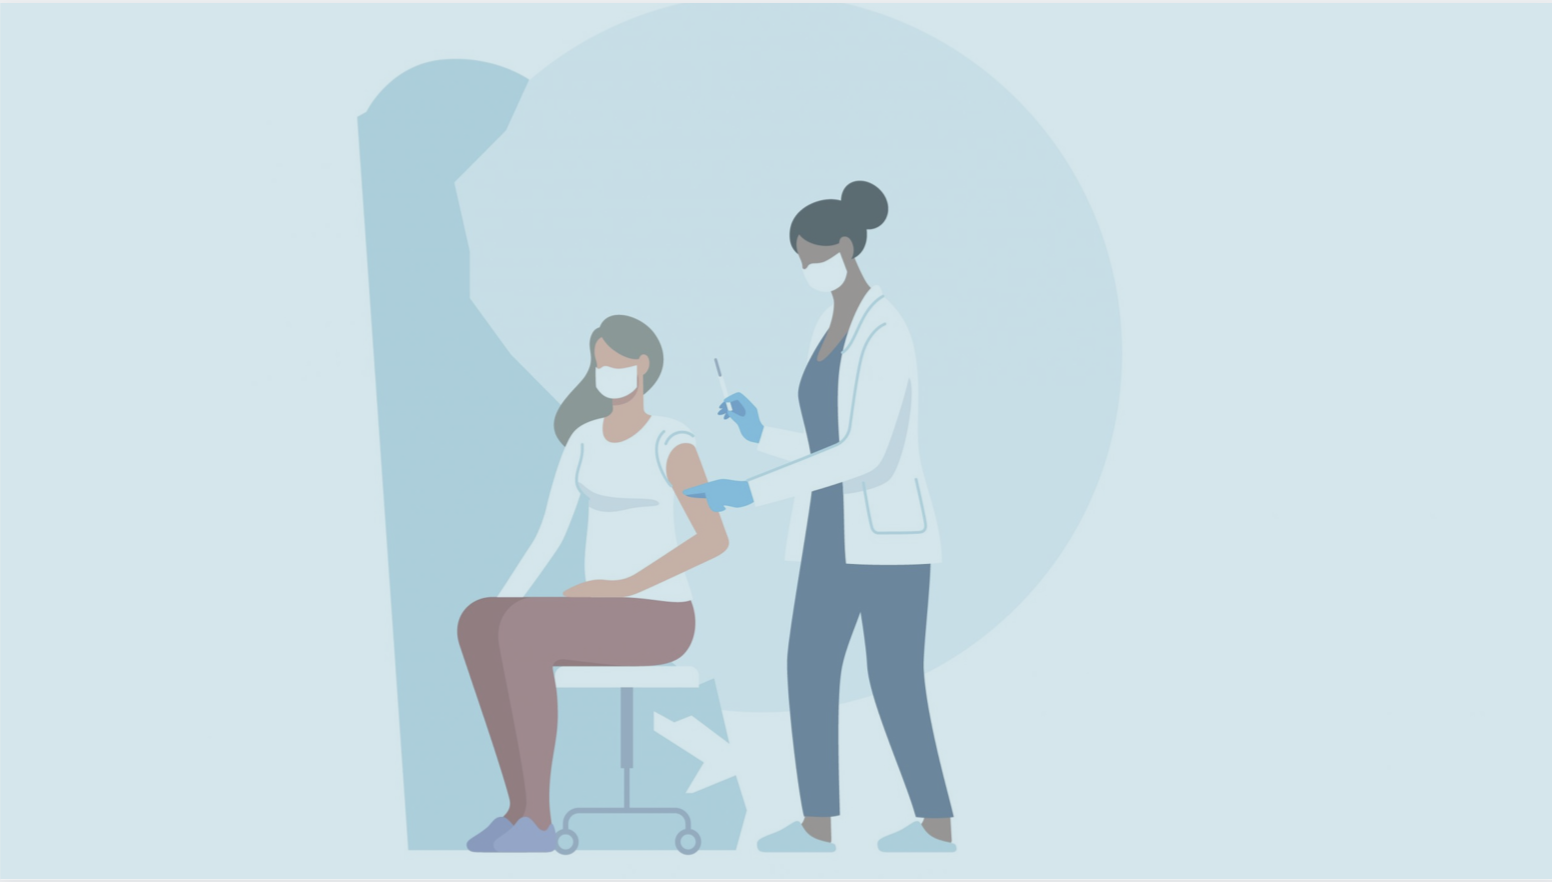
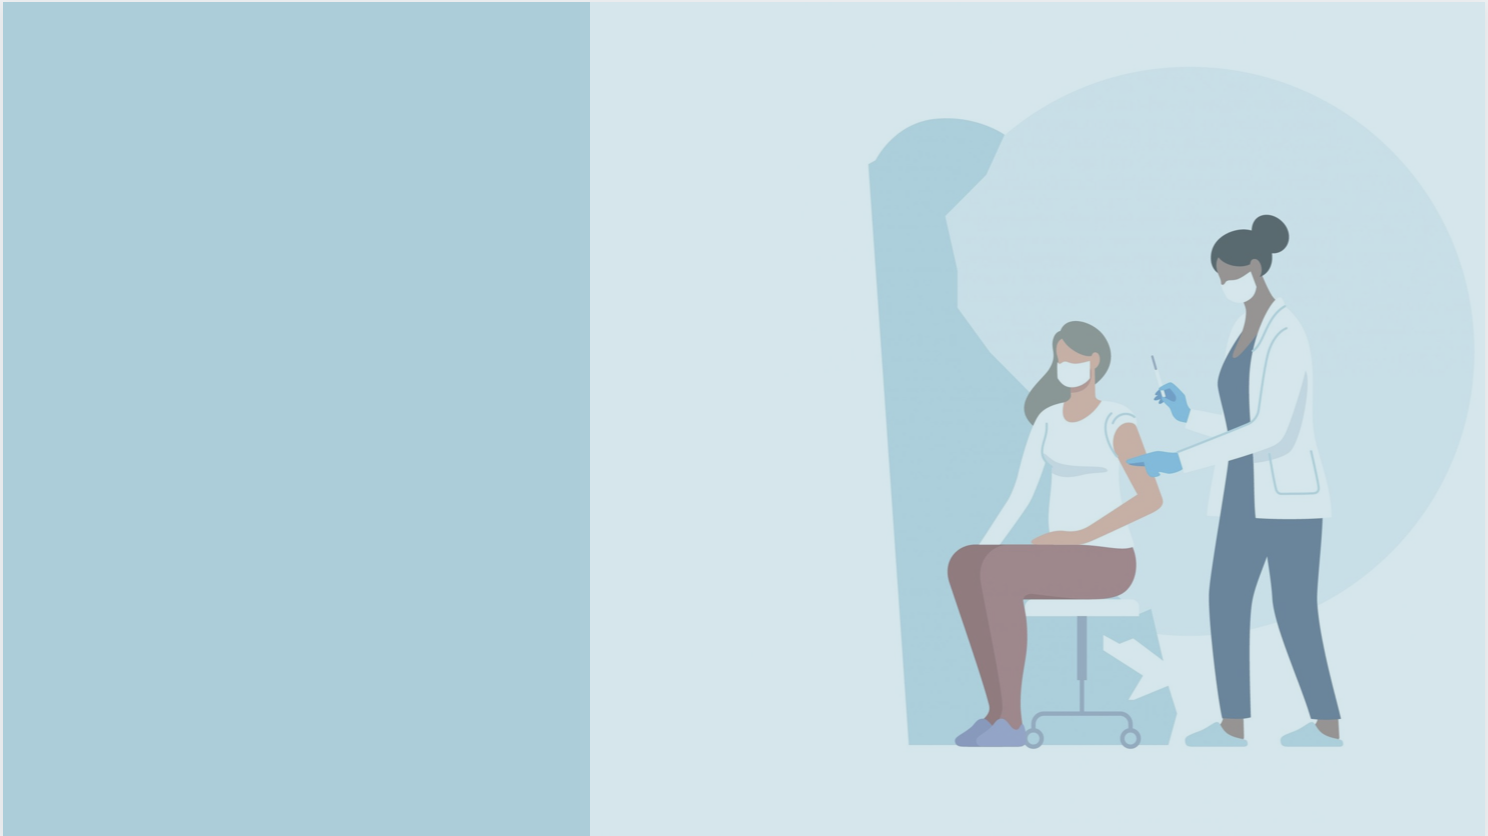
Create login page

diff --git a/src/components/Styles.js b/src/components/Styles.js
@@ -1,6 +1,6 @@
 import styled from 'styled-components';
 //Background
-import background from './../assets/VaccineBackground.png';
+import background from './../assets/Background.png';
 //React router
 import {Link} from 'react-router-dom';
 
@@ -76,4 +76,54 @@ export const ButtonGroup =styled.div`
      justify-content: space-around;
      flex-direction: row;
      margin-top: 25px;
+`;
+//Input
+export const StyledTextInput =styled.input`
+     width: 280px;
+     padding: 15px;
+     padding-left: 50px;
+     font-size: 17px;
+     letter-spacing: 1px;
+     color: ${colors.light2};
+     border: 0;
+     outline: 0;
+     display: block;
+     margin: 5px auto 10px auto;
+     transition: ease-in-out 0.3s;
+
+     ${(props) => props.invalid && `background-color : ${colors.red}; color:${colors.primary};`}
+
+     &:focus{
+         background-color: ${colors.dark2};
+         color: ${colors.primary};
+     }
+`;
+
+export const StyledLabel = styled.p`
+     text-align: left;
+     font-size: 13px;
+     font-weight: bold;
+`;
+
+export const StyledFormArea = styled.div`
+     background-color: ${props => props.bg || colors.light1};
+     text-align: center;
+     padding: 45px 55px;
+`;
+
+export const StyledFormButton = styled.button`
+    padding: 10px;
+    width: 150px;
+    background-color: transparent;
+    font-size: 16px;
+    border :3px solid ${colors.theme};
+    border-radius: 25px;
+    color: ${colors.theme};
+    transition: ease-in-out 0.3s;
+
+    &:hover{
+        background-color:${colors.theme};
+        color: ${colors.primary};
+        cursor: pointer;
+    }
 `;

diff --git a/src/pages/Login.js b/src/pages/Login.js
@@ -1,0 +1,50 @@
+//styled components
+import {StyledTextInput,
+    StyledFormArea,
+    StyledFormButton,
+    StyledLabel,
+    Avatar,
+    StyledTitle,
+    colors,
+    ButtonGroup
+} from './../components/Styles'
+
+import Logo from './../assets/VaccineLogo.png'
+
+//Fromik
+import {Formik,Form} from 'formik';
+import {TextInput} from './../components/FormLib';
+
+const Login =() =>{
+    return(
+       <div>
+           <StyledFormArea>
+               <Avatar image={Logo}/>
+               <StyledTitle color={colors.theme} size={30}>Login</StyledTitle>
+                <Formik>
+                    {()=>(
+                        <Form>
+                            <TextInput 
+                                name="email"
+                                type="text"
+                                label="Email Address"
+                                placeholder="fern.1502@example.com"
+                            />
+                            <TextInput
+                                name="password"
+                                type="password"
+                                label="Password"
+                                placeholder="*********"
+                                
+                            />
+                            <ButtonGroup>
+                                <StyledFormButton type="submit">Login</StyledFormButton>
+                            </ButtonGroup>
+                        </Form>
+                    )}
+                </Formik>
+           </StyledFormArea>
+       </div>
+    )
+}
+export default Login;

diff --git a/src/components/FormLib.js b/src/components/FormLib.js
@@ -1,0 +1,24 @@
+import {useField} from 'formik';
+import {
+    StyledTextInput,
+    StyledLabel
+} from './../components/Styles';
+
+export const TextInput =({...props}) => {
+    const [field,meta]=useField(props);
+
+    return(
+        <div>
+            <StyledLabel htmlFor={props.name}>
+                {props.label}
+            </StyledLabel>
+            <StyledTextInput
+                {...field}
+                {...props}
+            />
+
+            
+        </div>
+
+    )
+}

diff --git a/src/App.js b/src/App.js
@@ -1,5 +1,6 @@
 //Pages
 import Home from './pages/Home';
+import Login from './pages/Login';
 //styled components
 import {StyledContainer} from './components/Styles';
 import {
@@ -13,7 +14,7 @@ function App() {
   return (
     <Router>
     <StyledContainer> 
-      <Home/>
+      <Login/>
     </StyledContainer>
     </Router>
     
